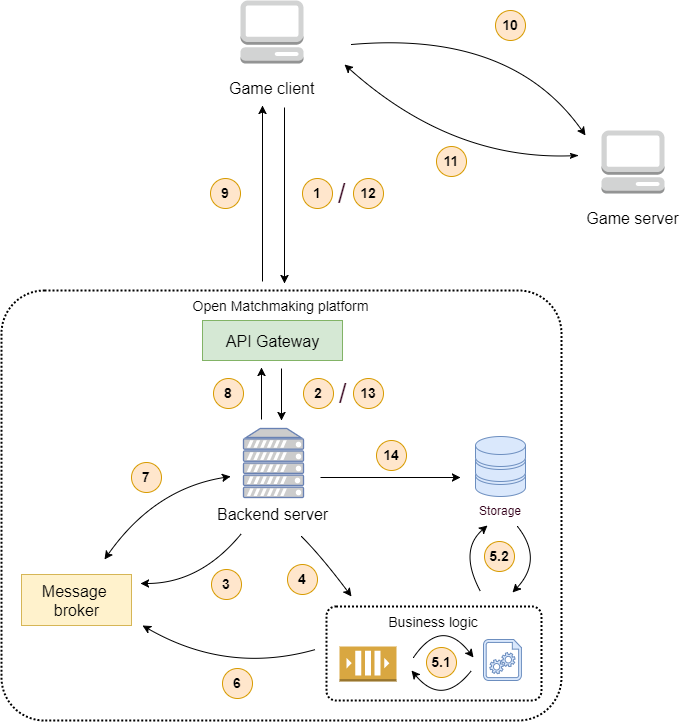
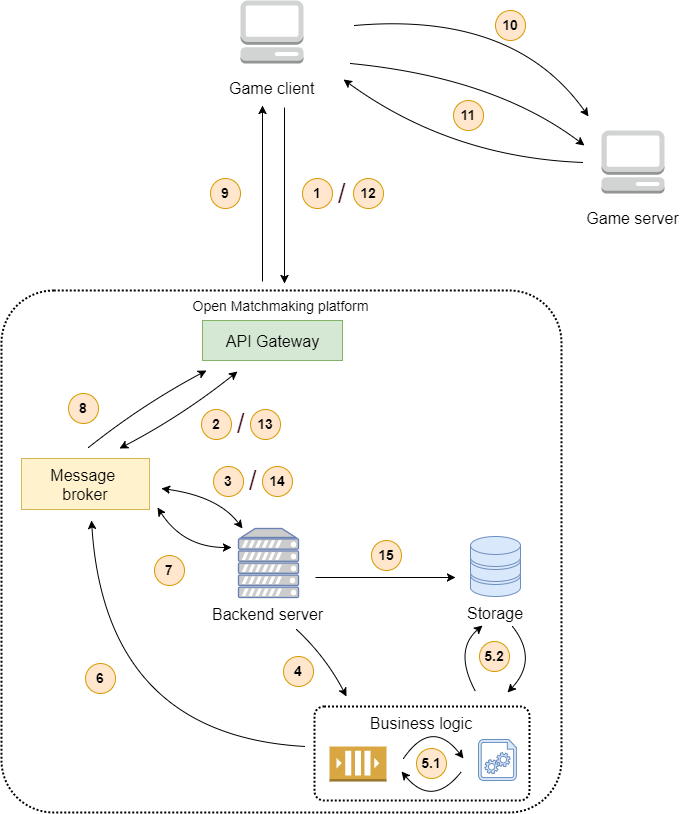
Updated architecture documentation

diff --git a/docs/README.md b/docs/README.md
@@ -21,21 +21,22 @@ As you can see at this image it contains three different components:
     - Providing a lot different strategies (or matchmaking algorightms), that could be used for different game modes and genres at the same time.
     - Collecting some statistics, that could be used for further data processing, like creating the leaderboards, plays of the day and etcetera after ending each match.
 
-The next part about we will b talk its how entire components works and communicating with each other. On the high level abstraction it works pretty simple:
+The next part about we will be talk its how entire components work and communicating with each other. On the high level abstraction it works pretty simple:
 1) The game client sends a request to an API gateway server to find a new match for a player. In request body we should specify the player ID, game mode and a used search strategy at least (but we could append something else, when it will be necessary and our server could use it information).
-2) After receiving a request from a player, API Gateway transmit it to an appropriate server which is could process it. For example, one of the registered server in API Gateway can process only matchmaking requests, another only building a user profiles, and so on.
-3) The processing node receives the request, and before its processing do subscribing on the messages with the player ID, that was specified in request.   
-  **NOTE:** This step should be done only once when the player runned a game client, logged into system and runned a searching in the first time.
+2) After receiving a request from a player, API Gateway wrap this request into a "message" and put it in one of available message queues, which are listening by all existing matchmaking microservices. For getting a response from a one of processing nodes, API Gateway listening a message in a mailbox with the appropriate request_id.
+3) One of the appropriate servers which is could process it, takes the message from the message queue. The processing node receives the request, and before its processing do subscribing on the messages with the player ID, that was specified in request.   
+**NOTE:** This step should be done only once when the player runned a game client, logged into system and runned a searching in the first time.
 4) Server add a new asynchronous task in tasks pool (i.e. Celery with Python 3+) and after it, starting processing a new request.  
 5) Doing business logic:  
   5.1. On of the exissting worker is running an appropriate code that will do some useful work (building a leaderboard, searching a player/team).  
   5.2. If it will be necessary, this code could take same data from the storage which stores information about finished maches, players and so on. For instance, during activity of the player all data could be stored in NoSQL storage (like CouchDB, Mnesia, Redis, etc.) and any other data in some relational database (like PostgreSQL, MySQL, etc.).
 6) When all required work was completed, finished task put the message with player ID into message queue (it could be RabbitMQ, ZeroMQ, etc.)
-7) Because our web server is subscribed on the messages with particular player ID, it just received this message and extract the result from it.
-8) Return the final response to the API gateway.
+7) Because our backend server is subscribed on the messages with particular player ID, it just received this message from a message queue, extract the result from it, make some additional post-processing actions (if it will be necessary) and put the new message in one on message queues.
+8) Because the API Gateway listens messages with the particular request_id, it extract the message from a message queue, when it will be appeared.
 9) Send a response to the waiting game client with the data that was extracted on the previous step.
 10) Game client is trying to connect to the prepared game server, entering into already created game lobby and waiting until other players will be connected.
 11) After the game is prepared, game server started a new game with the connected users. The game server and game client just communicating with each other and sychronizing game states and do some additional work that required during the current game session.
 12) When the game was finished, game client send a request with information about the completed game in body to the API Gateway.
-13) API Gateway like on the previous steps, transmits a request to an appropriate service, that could do this work.
-14) Matchmaking service received a request to save this part of data, and update/refresh it in the appropriate storage.
+13) API Gateway like on the previous steps, wraps a request into a "message" and put it in one of available message queues. Also subscribing to getting a response from a some existing processing node. When the message will recieved, return it to a caller.
+14) One of the appropriate servers which is could process it, takes the message from the message queue. Unwraps the message, and do some useful work. Puts the message into a message queue with the label, that data processing was started.
+15) Matchmaking service received a request to save this part of data, and update/refresh it in the appropriate storage.
